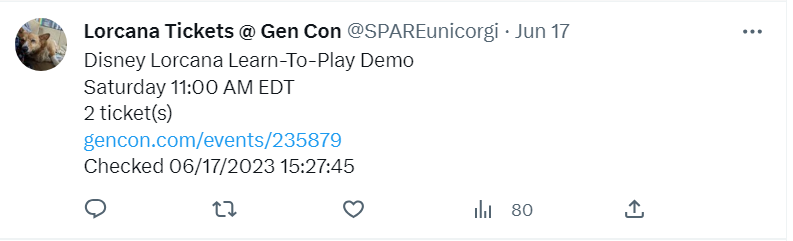
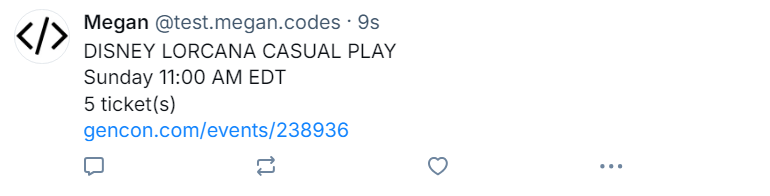
updated screenshot/tweet message

diff --git a/scraper.ts b/scraper.ts
@@ -1,6 +1,7 @@
 import * as dotenv from 'dotenv';
 import puppeteer from 'puppeteer';
 import * as mariadb from 'mariadb';
+import { formatTweet } from './bluesky';
 
 dotenv.config();
 
@@ -17,7 +18,7 @@ async function openPagesAndPrintTitles() {
   let connection;
   try {
     connection = await pool.getConnection();
-    const query = 'SELECT url FROM events WHERE isPastEvent = 0';
+    const query = 'SELECT * FROM events WHERE isPastEvent = 0';
     const rows = await connection.query(query);
 
     const browser = await puppeteer.launch({
@@ -34,13 +35,16 @@ async function openPagesAndPrintTitles() {
     });
 
     const page = await browser.newPage();
-
+    let eventURL;
+    let eventName;
+    let eventTime;
+    let ticketAmount;
     for (const row of rows) {
       const url = row.url;
       if (url) {
         await page.goto(url, { waitUntil: 'domcontentloaded' });
 
-        const result = await page.evaluate(() => {
+        const tickets = await page.evaluate(() => {
             const elementsTest = document.querySelector('div[id*="event_detail_ticket_purchase"] p');
             if (elementsTest) {
                 return elementsTest.textContent?.replace("Available Tickets: ", "").trim();
@@ -48,11 +52,19 @@ async function openPagesAndPrintTitles() {
             return null;
         });
         
-        console.log('Element details:', result);
-        console.log(`Opening URL: ${url}`);
-     
-        const pageTitle = await page.title();
-        console.log(`Page Title: ${pageTitle}`);
+        if (Number(tickets) > 0) {
+          let ticketAmount = `${tickets} ticket(s)`;
+          eventURL = row.url;
+
+          if (eventURL === 'file:///home/megan/Documents/Typescript/lorcana-bluesky/test/index.html') {
+            eventURL = 'https://gencon.com/events/238936';
+          }
+          eventName = row.event_name;
+          eventTime = formatDate(row.event_time);
+
+          const tweetMsg = `${eventName}\n${eventTime}\n${ticketAmount}\n${eventURL}`;
+          formatTweet(tweetMsg);
+        }
       }
     }
 
@@ -62,6 +74,25 @@ async function openPagesAndPrintTitles() {
   } finally {
     if (connection) connection.end();
   }
+}
+
+
+
+function formatDate(dateString: string): string {
+  const date = new Date(dateString);
+
+  const dayFormatter = new Intl.DateTimeFormat('en-US', { weekday: 'long' });
+  const dayOfWeek = dayFormatter.format(date);
+
+  const timeFormatter = new Intl.DateTimeFormat('en-US', {
+      hour: 'numeric',
+      minute: 'numeric',
+      hour12: true,
+      timeZoneName: 'short'
+  });
+  const time = timeFormatter.format(date);
+
+  return `${dayOfWeek} ${time}`;
 }
 
 

diff --git a/bluesky.ts b/bluesky.ts
@@ -1,26 +1,59 @@
 import { BskyAgent } from '@atproto/api';
 import { RichText } from '@atproto/api';
 import * as dotenv from 'dotenv';
+import fs from 'fs';
 dotenv.config();
 
-const agent = new BskyAgent({
-  service: 'https://bsky.social',
-});
 
-async function run() {
+
+// // Create the post with the image embed
+// await agent.post({
+//   text: 'Check out this image!',
+//   embed: {
+//     $type: 'app.bsky.embed.images',
+//     images: [
+//       {
+//         image: uploadData.blob,
+//         alt: 'Description of the image',
+//       },
+//     ],
+//   },
+//   createdAt: new Date().toISOString(),
+// });
+
+
+export async function formatTweet(tweetMessage){
+  const agent = new BskyAgent({
+    service: 'https://bsky.social',
+  });
   await agent.login({
     identifier: process.env.BLUESKY_USERNAME || '',
     password: process.env.BLUESKY_PASSWORD || '',
   });
-
   const rt = new RichText({
-    text: 'This is a test to test updated env creds. @senshi.tokyo',
+    text: tweetMessage,
   });
+
+  // const imagePath = 'assets/logo.png';
+  // const imageBuffer = fs.readFileSync(imagePath);
+
+// // Upload the image
+// const { data: uploadData } = await agent.uploadBlob(imageBuffer, { encoding: 'image/png' });
+
   await rt.detectFacets(agent);
   const postRecord = {
     $type: 'app.bsky.feed.post',
     text: rt.text,
     facets: rt.facets,
+    // embed: {
+    //        $type: 'app.bsky.embed.images',
+    //        images: [
+    //          {
+    //            image: uploadData.blob,
+    //           alt: 'Description of the image',
+    //         },
+    //        ],
+    //     },
     createdAt: new Date().toISOString(),
   };  
 
@@ -29,4 +62,3 @@ async function run() {
   );
 }
 
-run().catch(console.error);
